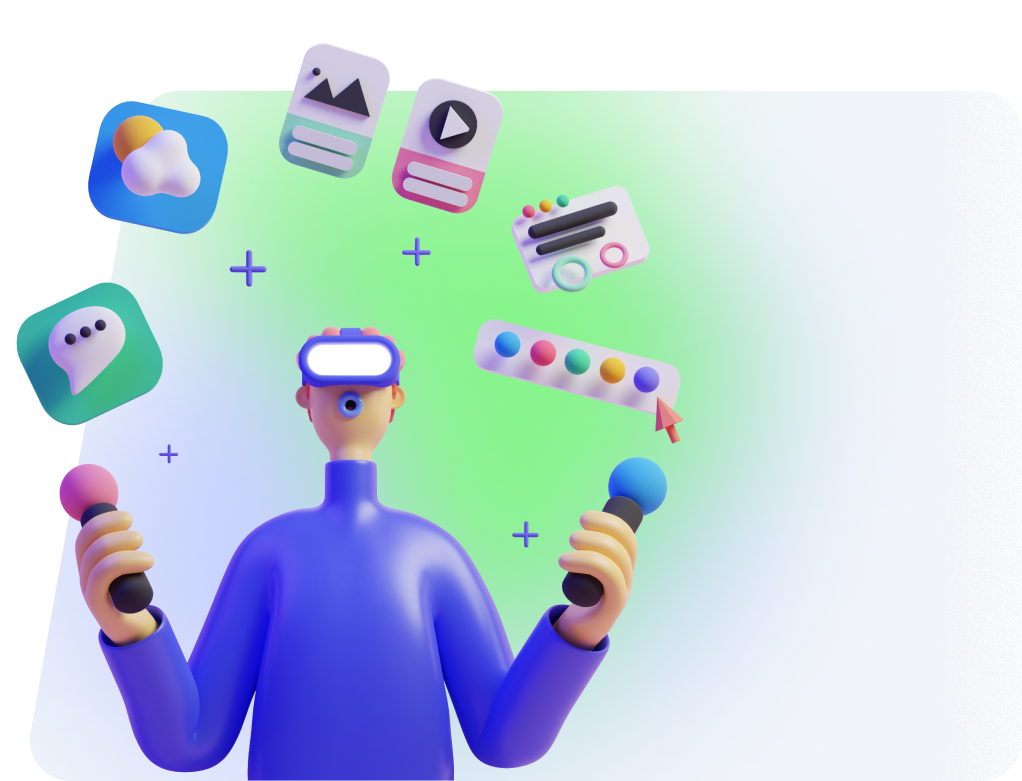
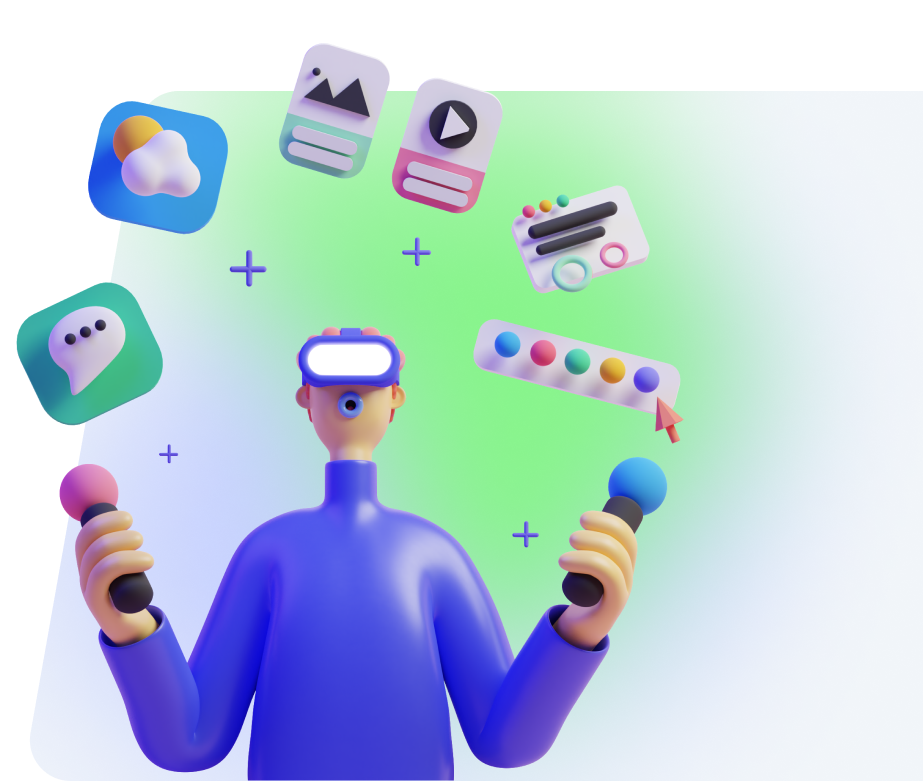
adjusting Illustration of Landing page

diff --git a/pages/index.js b/pages/index.js
@@ -1,13 +1,14 @@
 import { React } from "react"
 import Link from "next/link"
 import Image from "next/image"
-import ImgLandingPage from "../components/assets/Illustration2.png"
+import ImgLandingPage from "../components/assets/Illustration.png"
 
 export default function LandingPage() {
     return (
         <div id="container_landing_page" className="flex flex-row justify-start">
-            <div className="w-[45%] pl-28 flex flex-col justify-center items-center h-full mr-12">
+            <div className="w-[59%] pl-28 flex flex-col justify-center items-center h-full mr-12">
                 <div>
+
                     <div className="font-extrabold text-deepblue text-[3em] mb-6">
                         <h1>
                             Explore the Boundaries of{" "}
@@ -31,9 +32,8 @@ export default function LandingPage() {
                     </Link>
                 </div>
             </div>
-            <div className="flex flex-col justify-end items-end	 h-[100%]">
+            <div className="flex flex-col justify-end items-end w-[70%] mb-[5%]">
                 <Image
-                    id="img_lp"
                     unoptimized
                     src={ImgLandingPage}
                     alt="Image of the NFT"

diff --git a/styles/globals.css b/styles/globals.css
@@ -6,6 +6,7 @@ body {
     background-color: #f1f5f9;
 }
 
+
 #img_lp {
     height: 95% !important;
     width: auto;
@@ -105,6 +106,8 @@ label[for="inputUpdateListingNftModal"] {
 
 #container_landing_page {
     height: 92vh !important;
+    overflow-y: hidden;
+
 }
 
 #modalNft > div > footer > button:not(#modal-cancel-button) {
